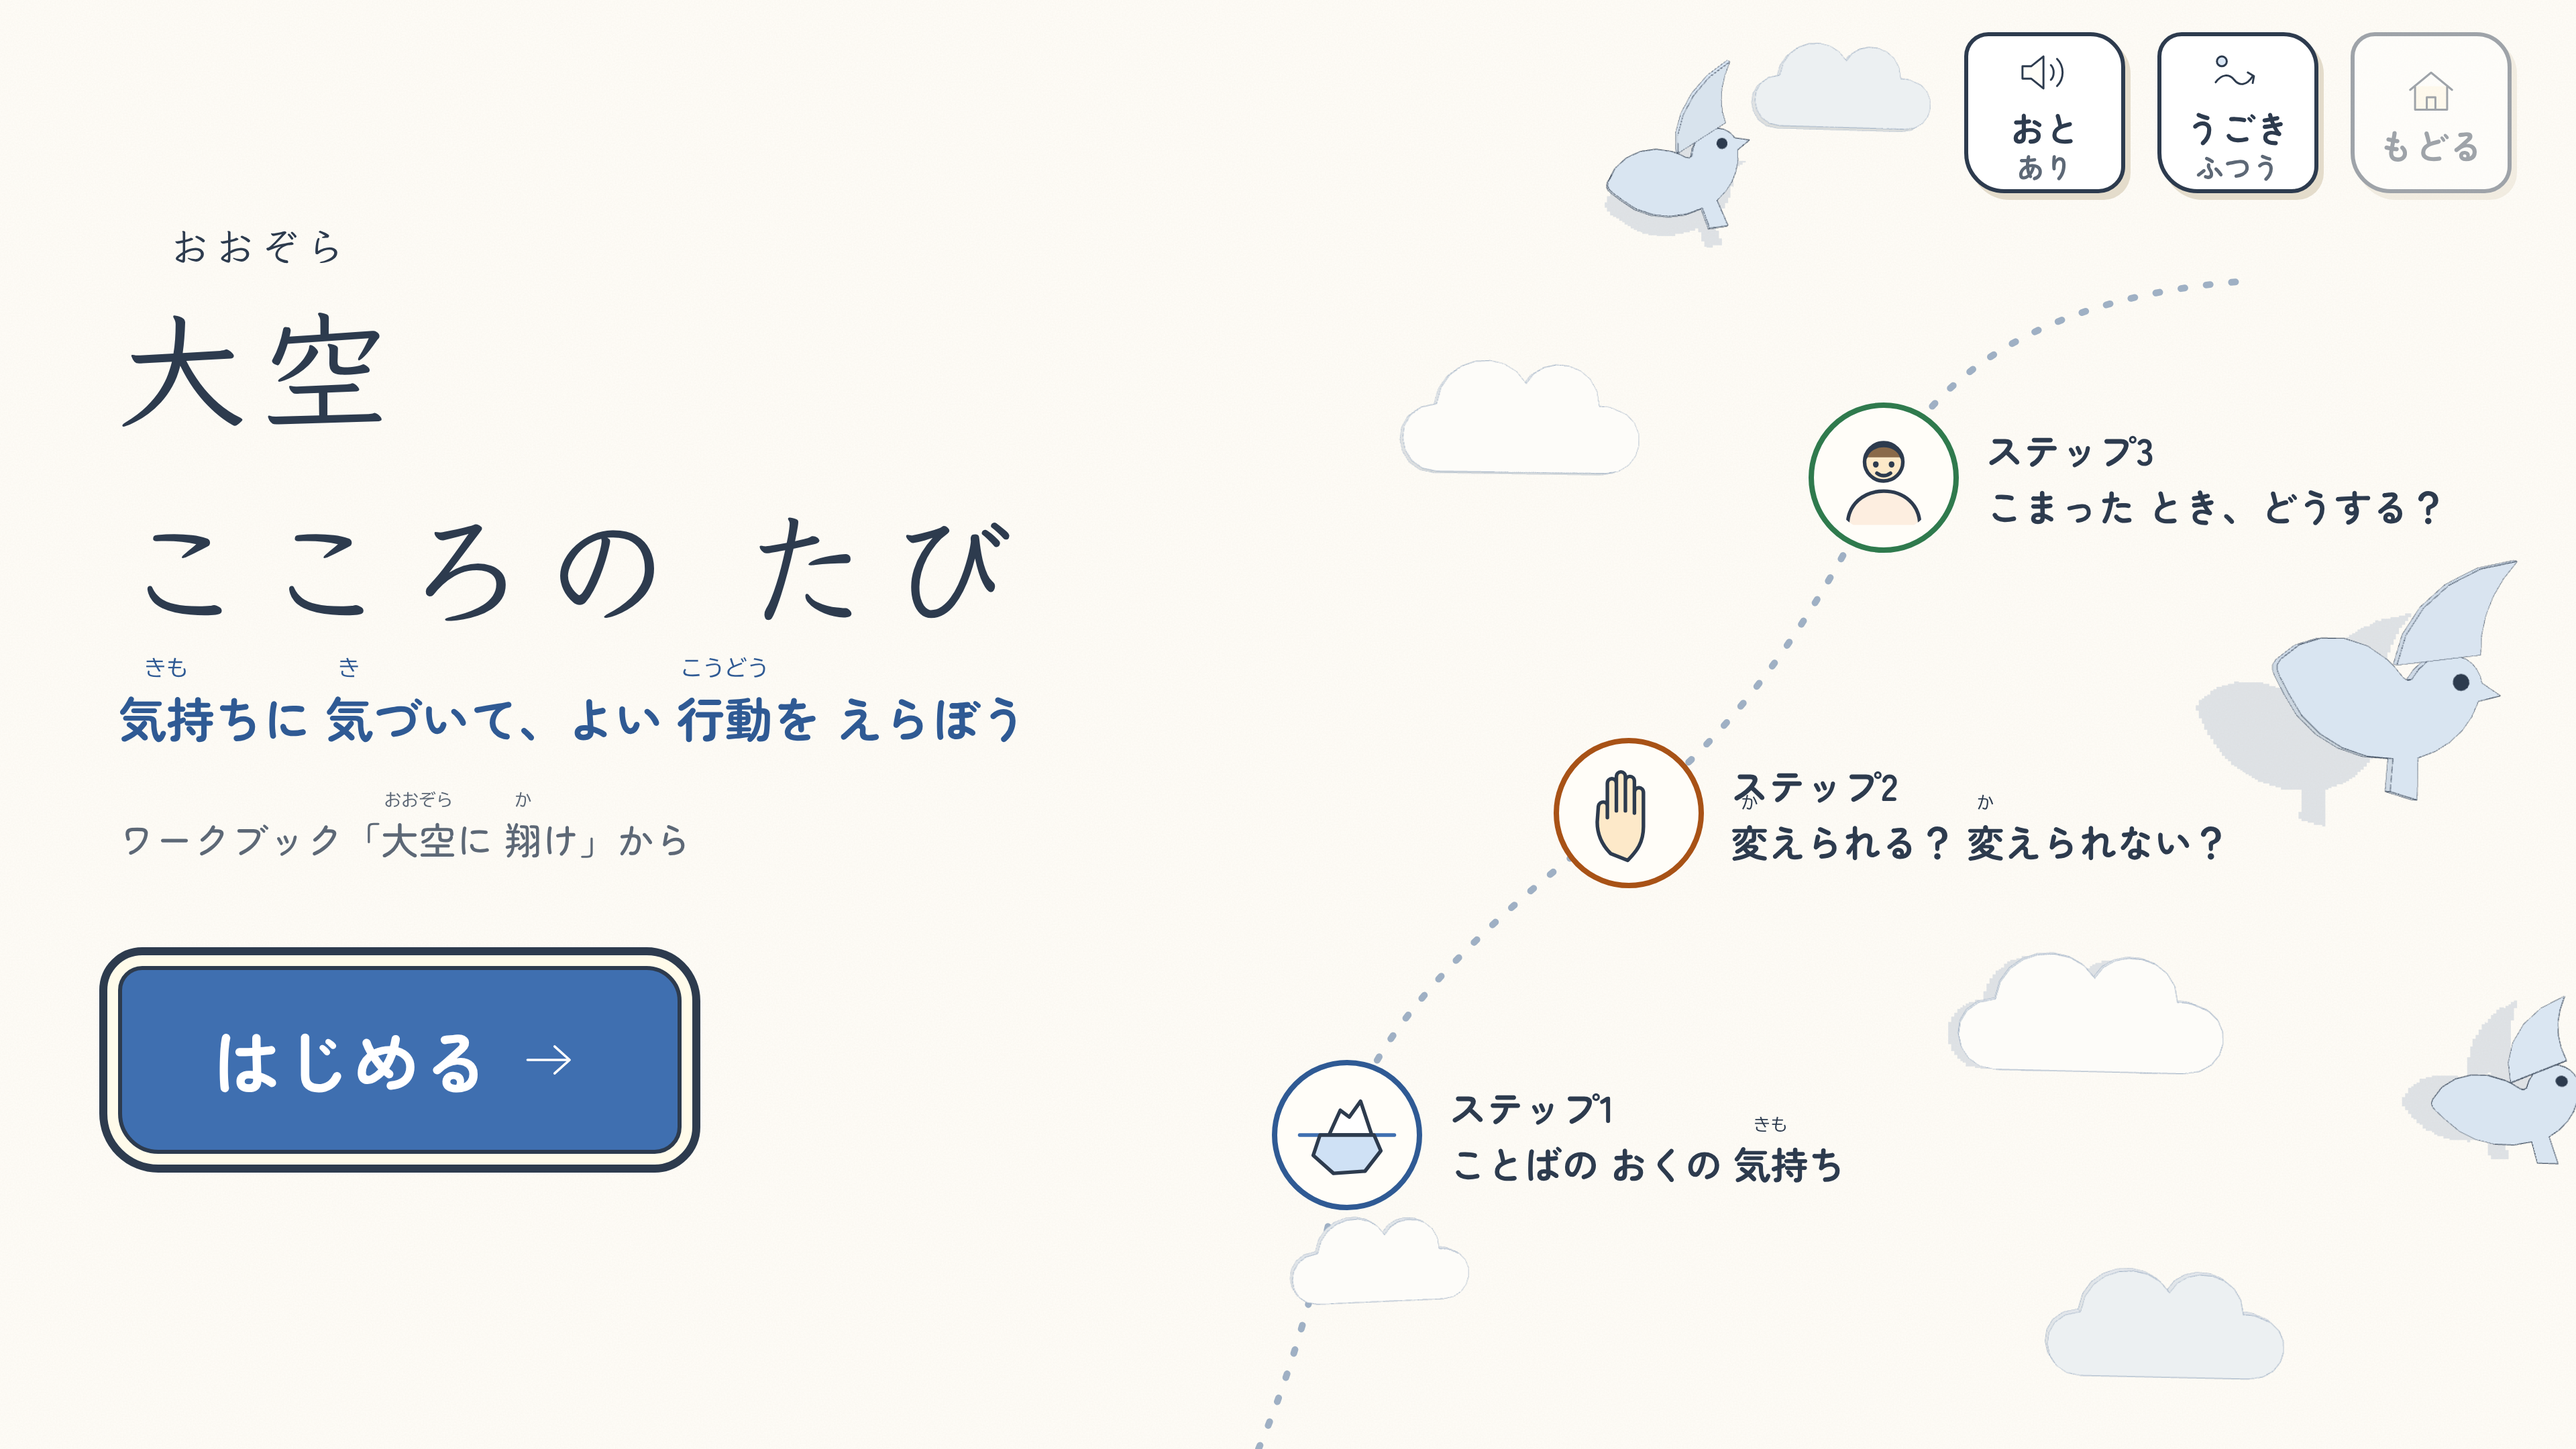
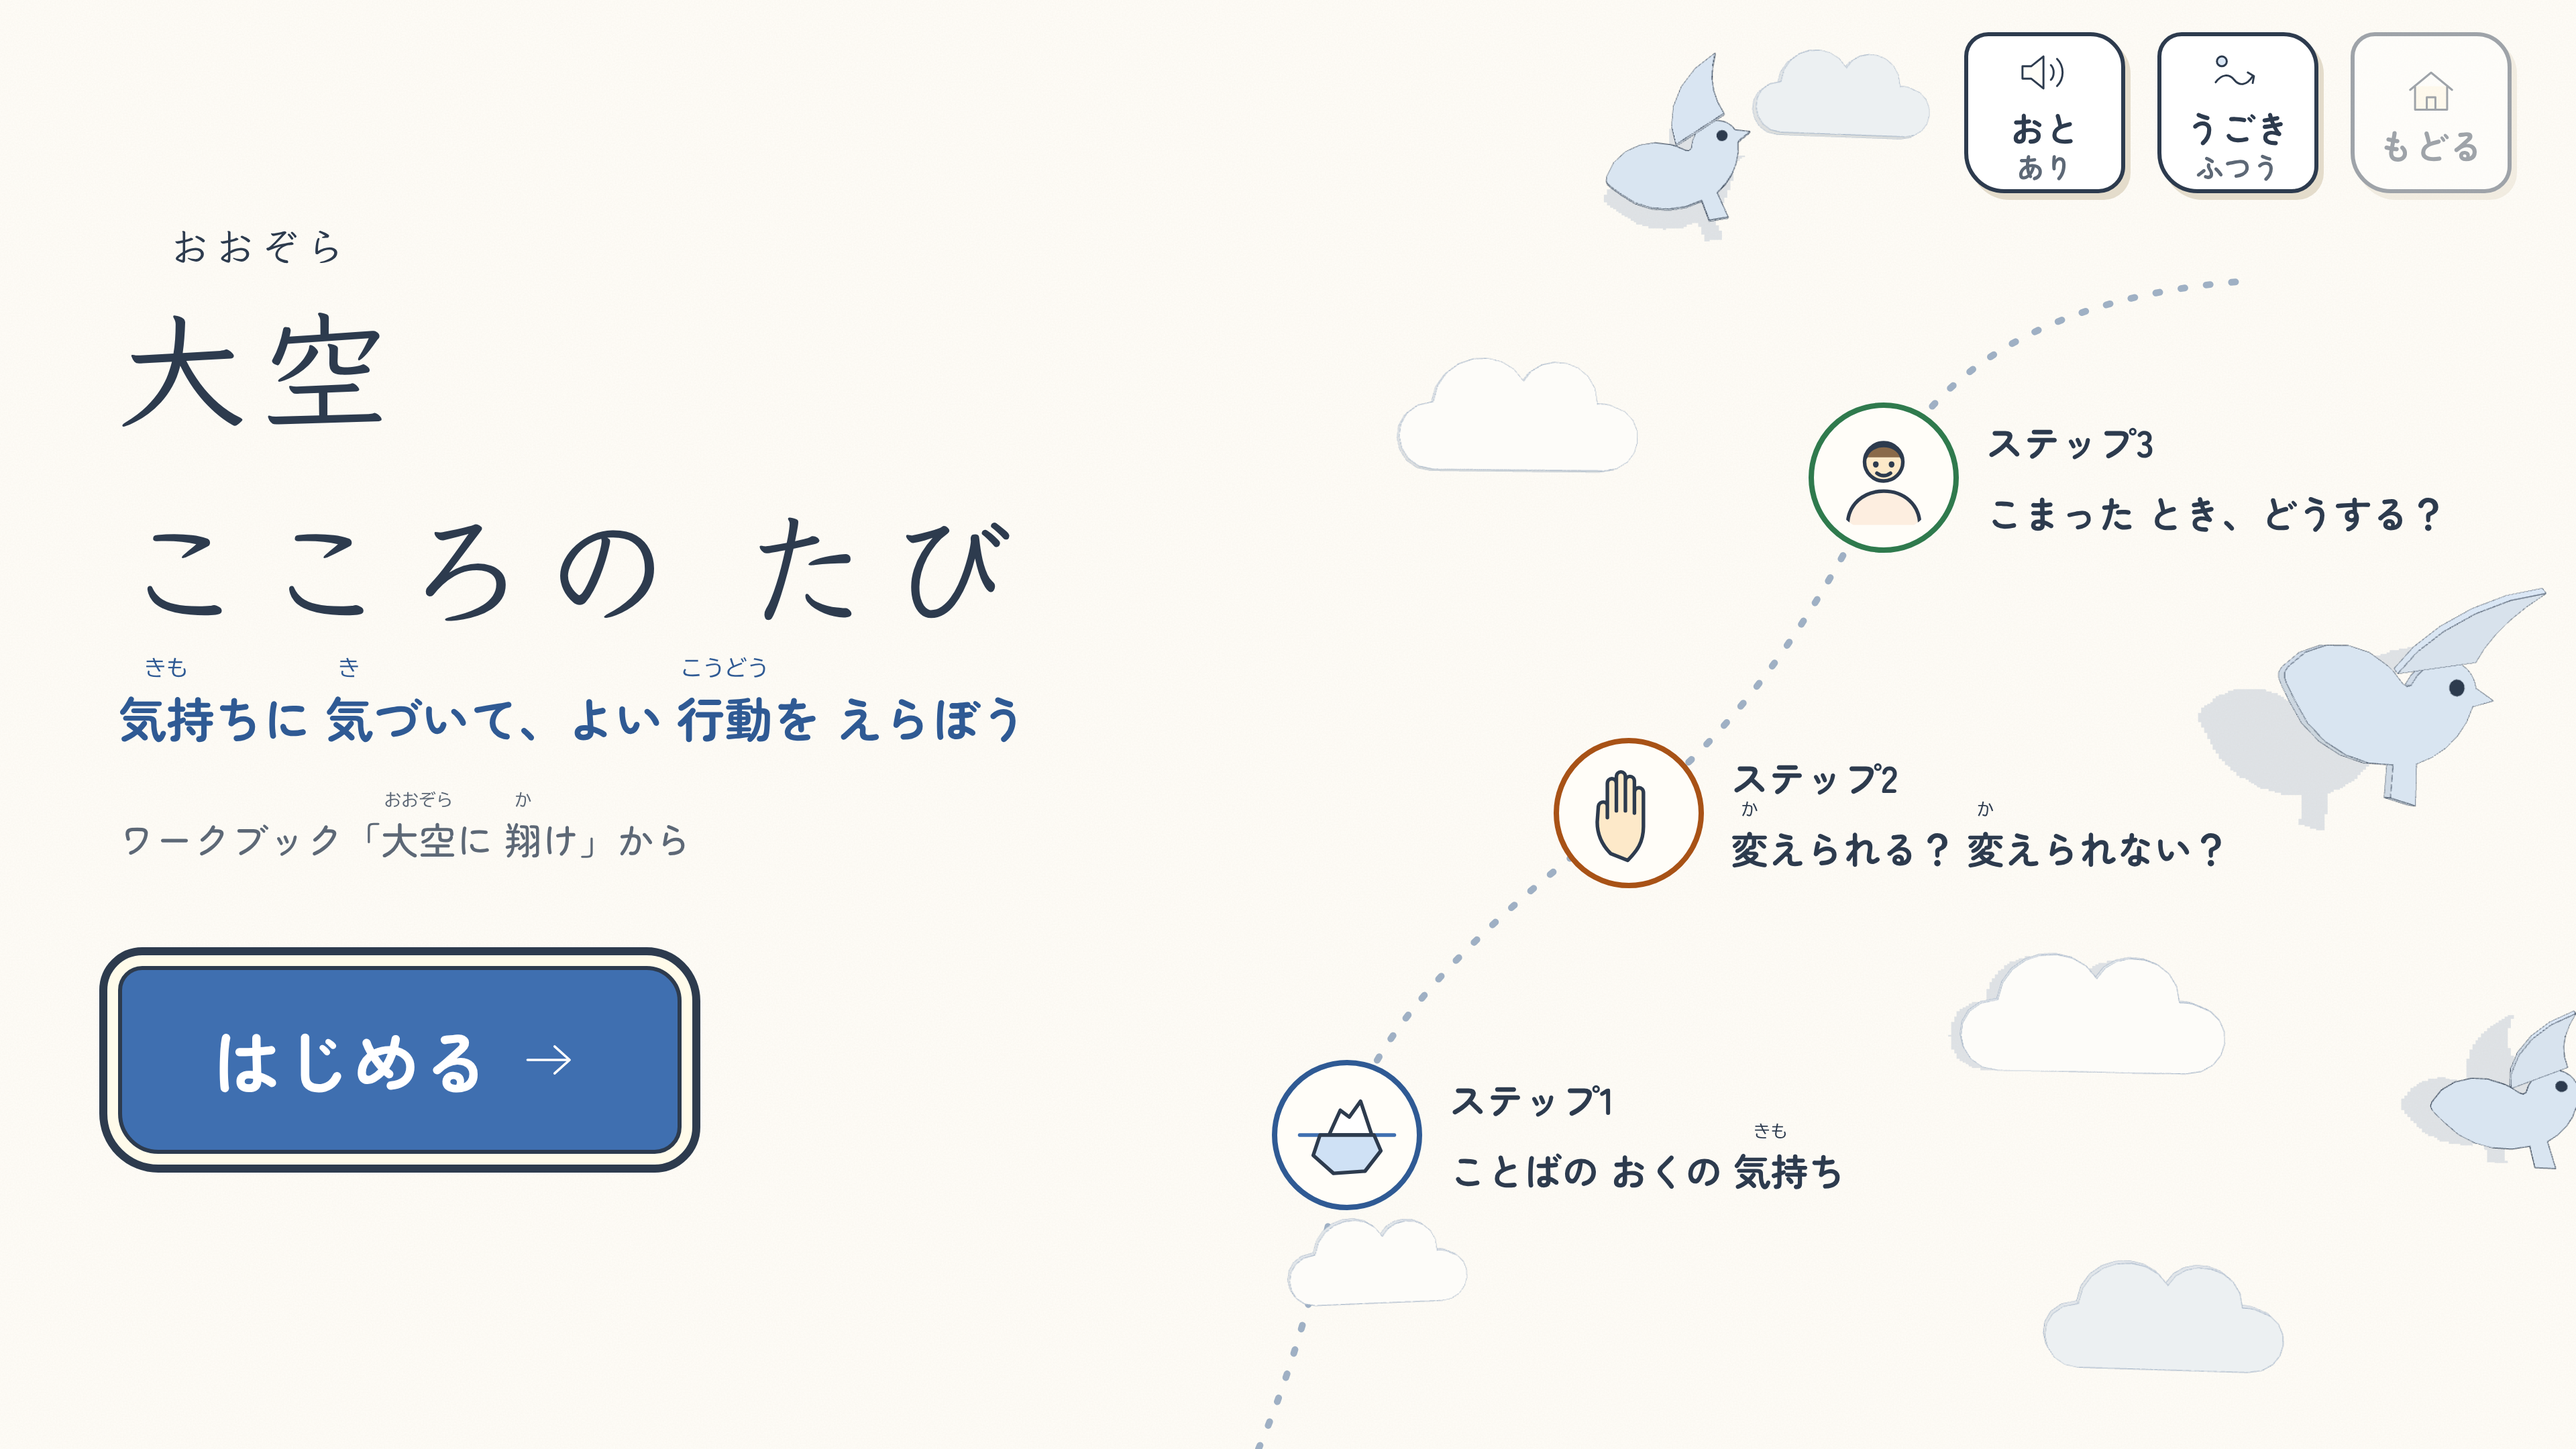
ozora-game: ゲームのチェック完了・紹介動画のソース（作業中）
Claude-Session: https://claude.ai/code/session_01JTrs8gj658ajB8e2bN2pxh

diff --git a/output/ozora-game/test-report.md b/output/ozora-game/test-report.md
@@ -1,4 +1,4 @@
-# テストレポート（2回目）: おおぞら こころの たび（ozora-game）
+# テストレポート（2回目＋タイトルの再確認）: おおぞら こころの たび（ozora-game）
 
 - 確認日: 2026-11-10（2回目）
 - 確認した人: チェック担当（game-tester）
@@ -6,7 +6,9 @@
 - 実行したこと: 正解だけで最後まで（1920・1280）、全14問で3回ずつまちがえる、キーボードだけで3回ずつまちがえる、`--disable-webgl --disable-3d-apis` で最後まで、「おと なし」で音を測る（AnalyserNode で実際の出力を測定）。
 - 2回目で ふやした確認: すべての画面の `<rt>`（ふりがな）について、親の漢字の まん中に のっているか、ほかの文字や ふりがなと重ならないか、枠で切れていないかを座標で調べた。行が変わる位置も 1文字ずつ調べた。
 
-## 結果: × が 1つ（タイトルの ふりがな が上の行に重なる）
+## 結果: × なし（すべて ○）
+
+- 修正のいきさつ: 2回目で タイトルの「ステップ2」の ふりがな「か」が 上の行に重なり ×。art-director が style.css の `.route-stop` の行間を 1.5 → 1.9 に直した。1920×1080・1280×720 で確かめて ○ にした。
 
 ## 前回の指摘の確認
 | 前回の指摘 | 結果 | 確認したこと |
@@ -39,15 +41,13 @@
 ### 見やすさ
 | 項目 | 結果 | 理由 |
 |---|---|---|
-| 1920×1080／1280×720 で文字が切れない・重ならない | **×** | はみ出し・画面の外・ことばの途中の改行は 0。ふりがなの ずれ・枠での切れも 0。**ただし タイトル画面の「ステップ2 変えられる？」で、「変」の ふりがな「か」が 上の行の「ス」に重なる**（約13×12px、2つの大きさとも）。下の「直すべき点」1 |
+| 1920×1080／1280×720 で文字が切れない・重ならない | ○ | はみ出し・画面の外・ことばの途中の改行は 0。ふりがなの ずれ・枠での切れ・重なりも 0。タイトルの「{変|か}えられる？」の ふりがなは、行間 1.9 にしてから「ステップ2」の文字と はなれて表示される（文字の形どうしの すきま 約6px）。ステップ1〜3の文字は、点線の みち・3Dの鳥と雲・ボタンと重ならない（2つの大きさで、時間をずらして4回撮って確認） |
 | コントラスト 4.5:1・ボタン 120px・色だけにしない | ○ | 表示されている文字は すべて 4.5:1 以上。ボタンは すべて 120×120 以上（1920 基準）。正解は「せいかい」の札＋はなまる＋線でも伝えている |
 | 点滅が1秒に3回をこえない・画面全体のフラッシュなし | ○ | くりかえすアニメは `.is-guide` の 2秒で1回 だけ |
 | AIっぽい見た目になっていない | ○ | 紙・テープ・切り絵・朱のスタンプ。紫のグラデーション・ネオン・すりガラス・絵文字はない |
 
 ## 直すべき点（×）
-1. **タイトルの ふりがなが 上の行に重なる**（担当: art-director／style.css）
-   ふりがなを上に うかせる形にしたので、行間 1.75 以上が前提になった。しかし `.route-stop` は `line-height: 1.5` のまま。そのため「ステップ2」の下の行「{変|か}えられる？ {変|か}えられない？」の「か」が「ス」に重なる。
-   直し方の例: `.route-stop { line-height: 1.9; }`（または `.route-stop-text` の2行目に ふりがなの分の上あきをつける）。ほかに `line-height` が 1.75 より小さく、ふりがなが2行目以降に来る所がないかも あわせて見てほしい（今回の調べでは ほかの画面は重なり 0）。
+なし（2回目の ×「タイトルの ふりがなの重なり」は、`.route-stop` の行間を 1.9 にして直った）
 
 ## 気づいた点（○のまま。急ぎではない）
 - 3回目の「いっしょに おして みよう」で出る手のカーソルが、正解カードの文字（例「いかない」）に少しかかる。押す場所を示す一瞬の案内なので そのままでもよい。
@@ -68,4 +68,4 @@
 - `check-nogl/` WebGL なしのステップクリア・ふり返り
 - `check-kb/` キーボードだけで遊んだ後の画面
 
-※ `01_title.png` には 上の × の重なりが写っている。直したら `01_title.png` だけ撮り直す。
+※ `01_title.png`（と `check-1280x720/01_title.png`）は、行間の修正のあとで撮り直した。
